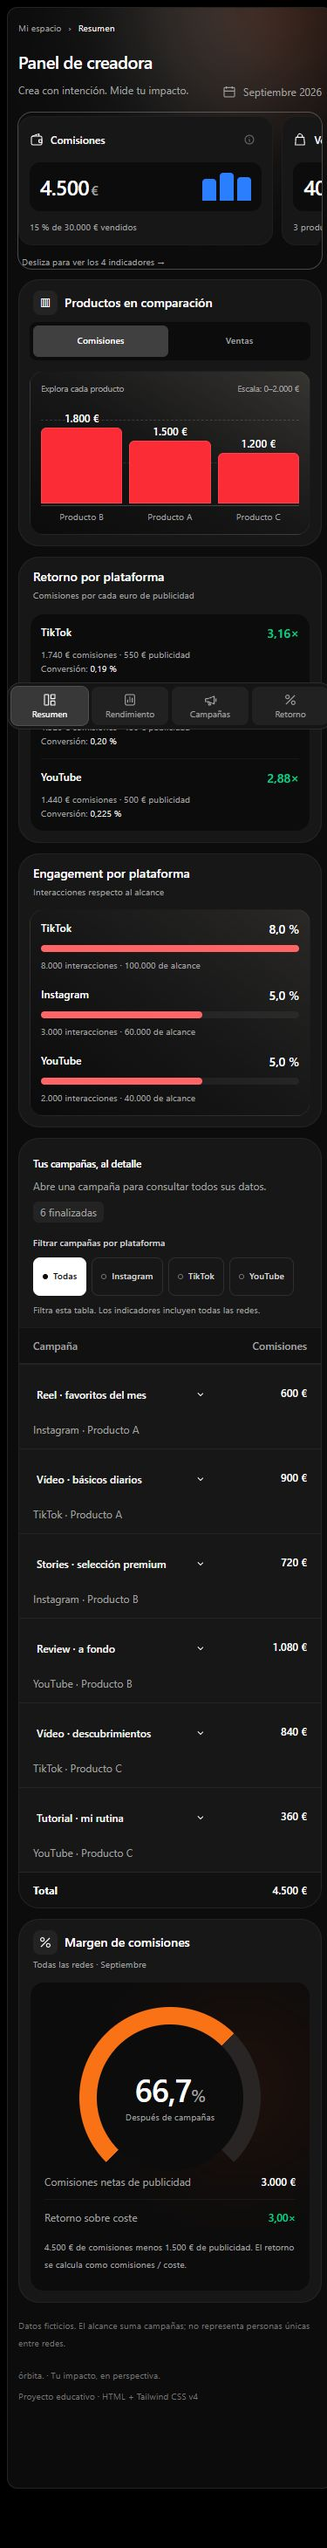
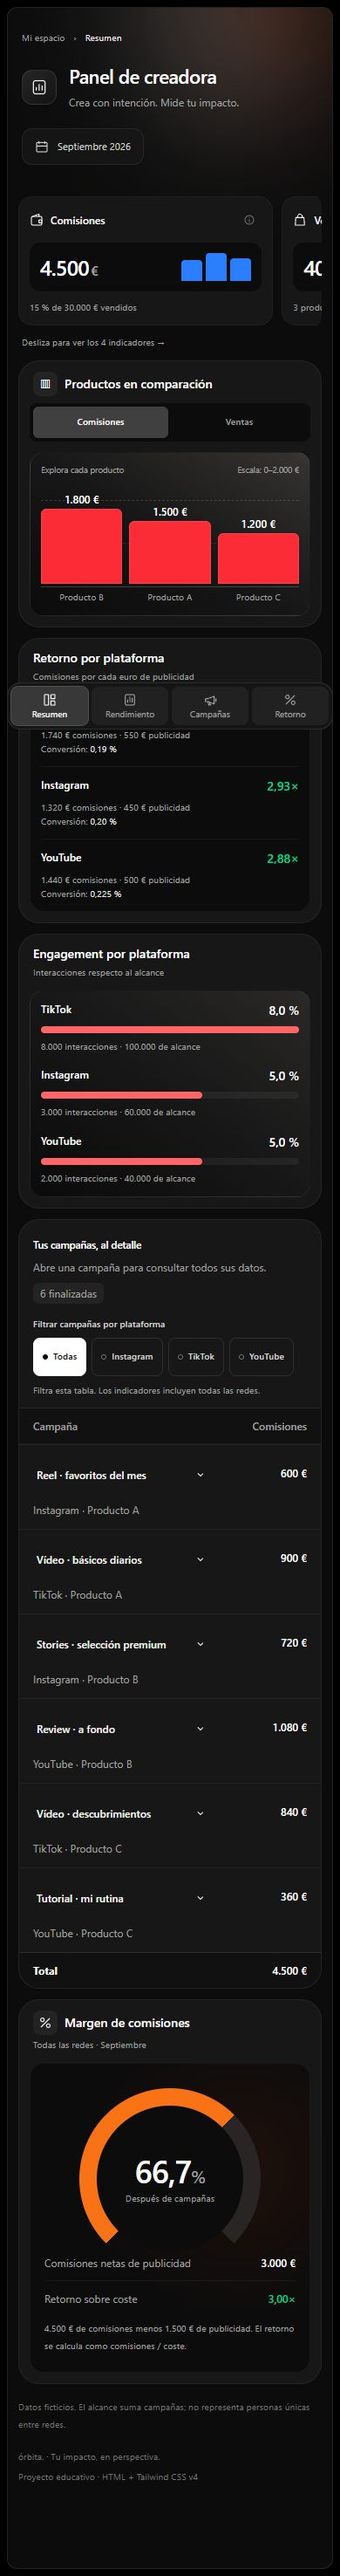
style: give dashboard header more space and visual consistency

diff --git a/index.html b/index.html
@@ -140,10 +140,10 @@
         tabindex="-1"
         class="min-w-0 scroll-mt-5 px-3 pt-4 pb-[calc(6rem+env(safe-area-inset-bottom))] sm:col-start-2 sm:pt-5 sm:pb-5"
       >
-        <header class="mb-4">
+        <header class="mb-5 px-1 pt-2 pb-3 sm:mb-6 sm:px-2 sm:pt-3 sm:pb-4">
           <div class="flex items-center justify-between gap-3">
             <div
-              class="flex items-center gap-2 text-[0.65rem] text-neutral-400"
+              class="flex items-center gap-2.5 text-[0.65rem] leading-5 text-neutral-400"
             >
               <span>Mi espacio</span><span aria-hidden="true">›</span
               ><span
@@ -161,16 +161,17 @@
               >
             </div>
           </div>
-          <div class="mt-4 flex flex-wrap items-end justify-between gap-3">
-            <div>
-              <h1 class="text-xl font-medium leading-7 tracking-tight">
-                Panel de creadora
-              </h1>
-              <p class="mt-2 text-xs leading-5 text-neutral-400">
-                Crea con intención. Mide tu impacto.
-              </p>
+          <div class="mt-5 flex flex-col items-start justify-between gap-5 sm:mt-6 sm:flex-row sm:items-center sm:gap-6">
+            <div class="flex items-center gap-3.5 sm:gap-4">
+              <span aria-hidden="true" class="flex size-10 shrink-0 items-center justify-center rounded-xl border border-white/10 bg-linear-to-br from-white/10 to-white/[0.025] text-neutral-100 shadow-sm shadow-black/20 sm:size-11">
+                <svg class="size-5" viewBox="0 0 24 24" fill="none" stroke="currentColor" stroke-width="1.5" stroke-linecap="round" stroke-linejoin="round"><rect x="4" y="3" width="16" height="18" rx="3"></rect><path d="M8 16v-4M12 16V8M16 16v-6"></path></svg>
+              </span>
+              <div class="min-w-0">
+                <h1 class="text-[1.375rem] font-medium leading-7 tracking-tight sm:text-2xl sm:leading-8">Panel de creadora</h1>
+                <p class="mt-1.5 text-xs leading-5 text-neutral-400">Crea con intención. Mide tu impacto.</p>
+              </div>
             </div>
-            <p class="flex items-center gap-2 text-xs text-neutral-400">
+            <p class="flex shrink-0 items-center gap-2.5 rounded-xl border border-white/[0.07] bg-[#171717]/80 px-3.5 py-2.5 text-[0.7rem] leading-5 text-neutral-300 shadow-sm shadow-black/10 sm:px-4">
               <svg
                 aria-hidden="true"
                 class="size-4"
